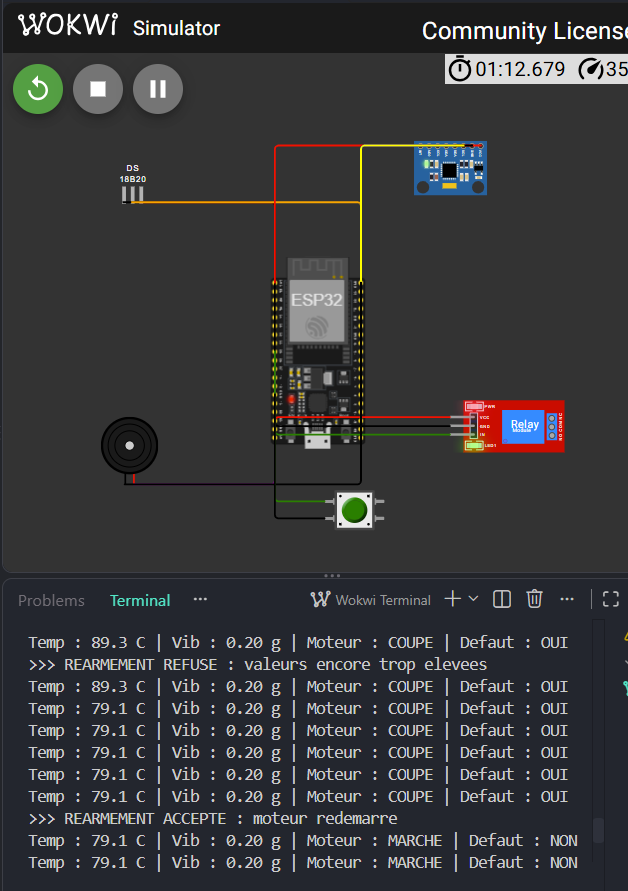
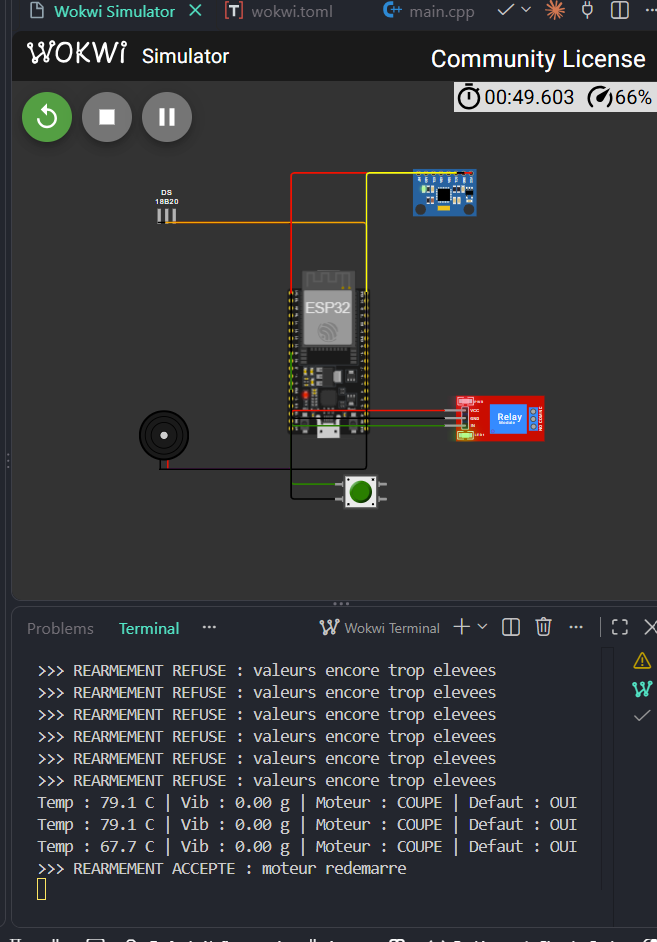
Rearmement sous le seuil d'alerte (75 C / 0,5 g) + preuve

diff --git a/1-firmware/src/main.cpp b/1-firmware/src/main.cpp
@@ -16,8 +16,8 @@ const int PIN_BOUTON  = 25;   // bouton « Réarmement » (vers GND)
 // --- Seuils (cahier des charges) ---
 const float SEUIL_CRITIQUE_TEMP = 85.0;   // °C → coupure
 const float SEUIL_CRITIQUE_VIB  = 1.0;    // g  → coupure
-const float SEUIL_REARM_TEMP    = 80.0;   // °C → réarmement possible en dessous (hystérésis)
-const float SEUIL_REARM_VIB     = 0.9;    // g  → réarmement possible en dessous (hystérésis)
+const float SEUIL_REARM_TEMP    = 75.0;   // °C → réarmement possible en dessous (= sous le seuil d'alerte)
+const float SEUIL_REARM_VIB     = 0.5;    // g  → réarmement possible en dessous (= sous le seuil d'alerte)
 
 // --- Plages plausibles (une valeur hors plage n'est JAMAIS comparée aux seuils) ---
 const float TEMP_MIN = 0.0, TEMP_MAX = 120.0;
